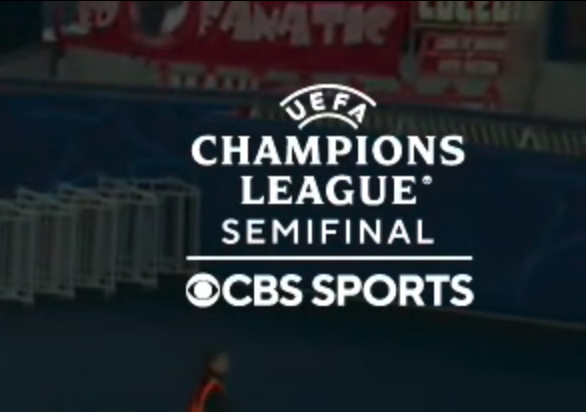
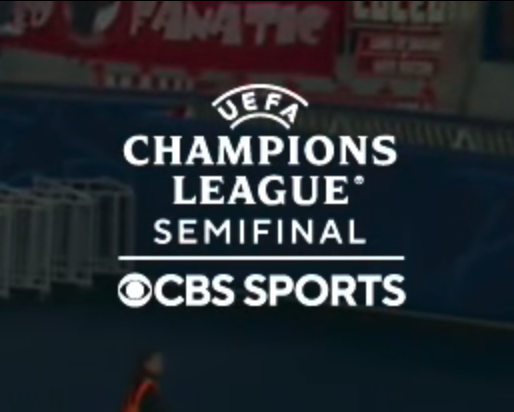
CBS UCL scorebug post: side-by-side OLD vs NEW hero + cover, mirror two-image After section, refreshed centered close-up
New OLD-vs-NEW composite generated as the hero shot at the top of the post and
the cover image (homepage card + social share). Shows the 2025 CBS Sports
network corner on the left labeled OLD next to the 2026 UEFA Champions League
Semi-Final round-name treatment on the right labeled NEW, on the icy-blue page
gradient with watermark bottom-middle. After section now mirrors the Before
two-image structure: full broadcast top first, close-up below. Centered version
of the cbs-ucl-2026-semi-final close-up replaces the previous file.

diff --git a/content/posts/cbs-ucl-semi-final-scorebug-2026.md b/content/posts/cbs-ucl-semi-final-scorebug-2026.md
@@ -4,7 +4,7 @@ category: "Soccer"
 date: "2026-04-28"
 excerpt: "CBS Sports added UEFA Champions League Semi-Final round branding to their scorebug for the 2026 knockout round. We break down why this round-name upgrade is long overdue and what should happen next."
 gradient: "linear-gradient(135deg, #E8F4F8 0%, #D6E0EE 100%)"
-coverImage: "/images/posts/cbs-ucl-scorebug-2026/cbs-ucl-2026-semi-final.png"
+coverImage: "/images/posts/cbs-ucl-scorebug-2026/cbs-ucl-old-vs-new.png"
 coverImagePosition: "center 50%"
 coverImageFit: "contain"
 logoSrc: "/logos/cbs-sports.png"
@@ -12,7 +12,7 @@ league: "soccer"
 teams: []
 ---
 
-<img src="/images/posts/cbs-ucl-scorebug-2026/cbs-ucl-2026-semi-final.png" alt="CBS Sports new UEFA Champions League Semi-Final scorebug for the 2026 knockout round broadcast featuring round name above the CBS Sports network logo" style="width: 100%; border-radius: 10px; margin-bottom: 2.5em;" />
+<img src="/images/posts/cbs-ucl-scorebug-2026/cbs-ucl-old-vs-new.png" alt="Side-by-side comparison of CBS Sports UEFA Champions League scorebug old vs new design with the 2025 plain CBS Sports network corner on the left labeled OLD and the 2026 UEFA Champions League Semi-Final round-name treatment on the right labeled NEW" style="width: 100%; border-radius: 10px; margin-bottom: 2.5em;" />
 
 CBS Sports updated their UEFA Champions League scorebug for the 2026 semi-finals and the change is long overdue. The right side of the scorebug, which used to be a static CBS Sports network corner with no indication of what round was being played, now reads "UEFA Champions League Semi-Final" in clean type with "CBS Sports" sitting underneath in smaller text. The round name is finally on screen. The hierarchy is finally correct. The semi-final finally looks like a semi-final on the broadcast graphic.
 
@@ -39,6 +39,11 @@ The closer-in look at the old scorebug shows what was missing. A casual viewer w
 <div style="margin: 2em 0;">
   <p style="text-align: center; font-size: 0.9em; color: #555; margin-bottom: 0.8em;"><strong>After · 2026 CBS Sports UEFA Champions League Semi-Final broadcast top</strong></p>
   <img src="/images/posts/cbs-ucl-scorebug-2026/cbs-ucl-2026-broadcast.png" alt="2026 CBS Sports UEFA Champions League Semi-Final broadcast top showing the two teams on the left and the new round-name treatment with UEFA Champions League Semi-Final above CBS Sports on the right" style="width: 100%; border-radius: 10px;" />
+</div>
+
+<div style="margin: 2em 0;">
+  <p style="text-align: center; font-size: 0.9em; color: #555; margin-bottom: 0.8em;"><strong>After · UEFA Champions League Semi-Final round-name treatment with CBS Sports underneath</strong></p>
+  <img src="/images/posts/cbs-ucl-scorebug-2026/cbs-ucl-2026-semi-final.png" alt="2026 CBS Sports UEFA Champions League Semi-Final scorebug close-up showing the new round-name treatment with UEFA Champions League Semi-Final in primary type and CBS Sports as secondary credit underneath" style="width: 100%; border-radius: 10px; max-width: 600px; margin: 0 auto; display: block;" />
 </div>
 
 For the 2026 semi-finals, CBS finally added the round name. The right side of the scorebug now leads with "UEFA Champions League Semi-Final" in clean type, with "CBS Sports" sitting underneath in smaller subordinate text. The hierarchy is correct. The competition round is the headline. The network is the secondary credit. That is the right way around for a knockout-round broadcast.
